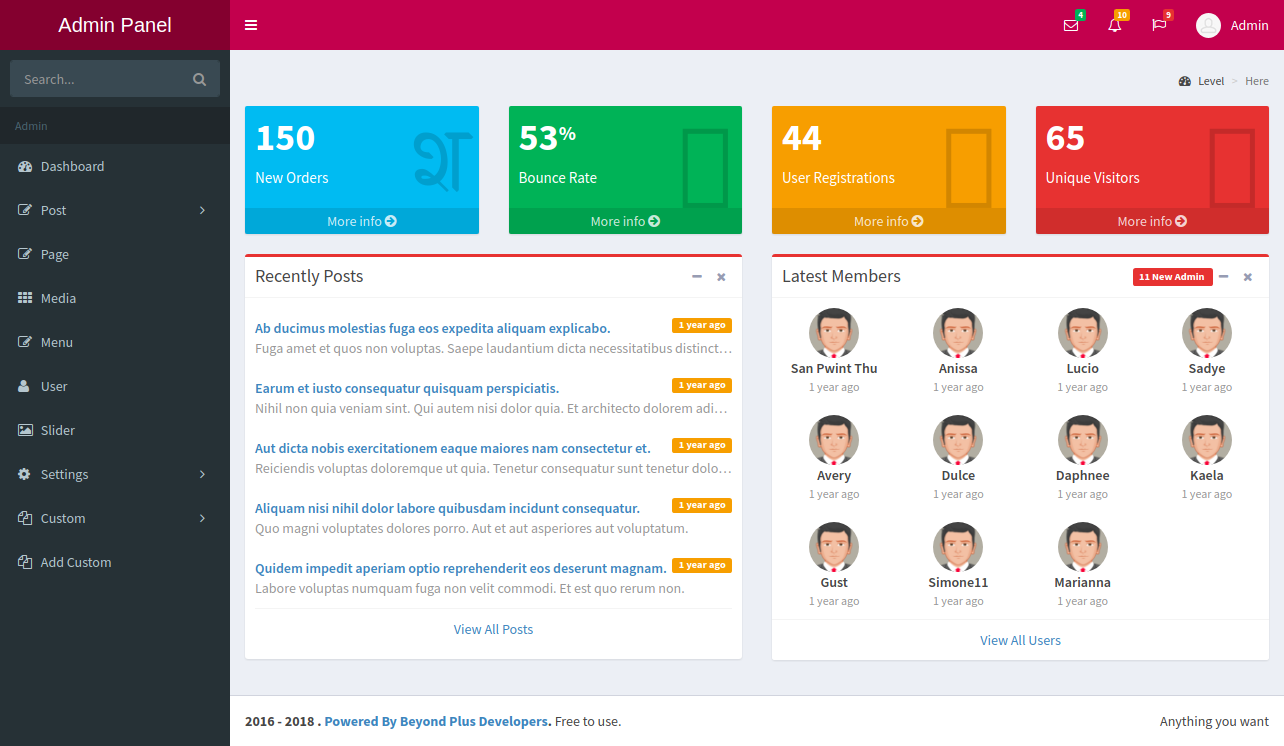
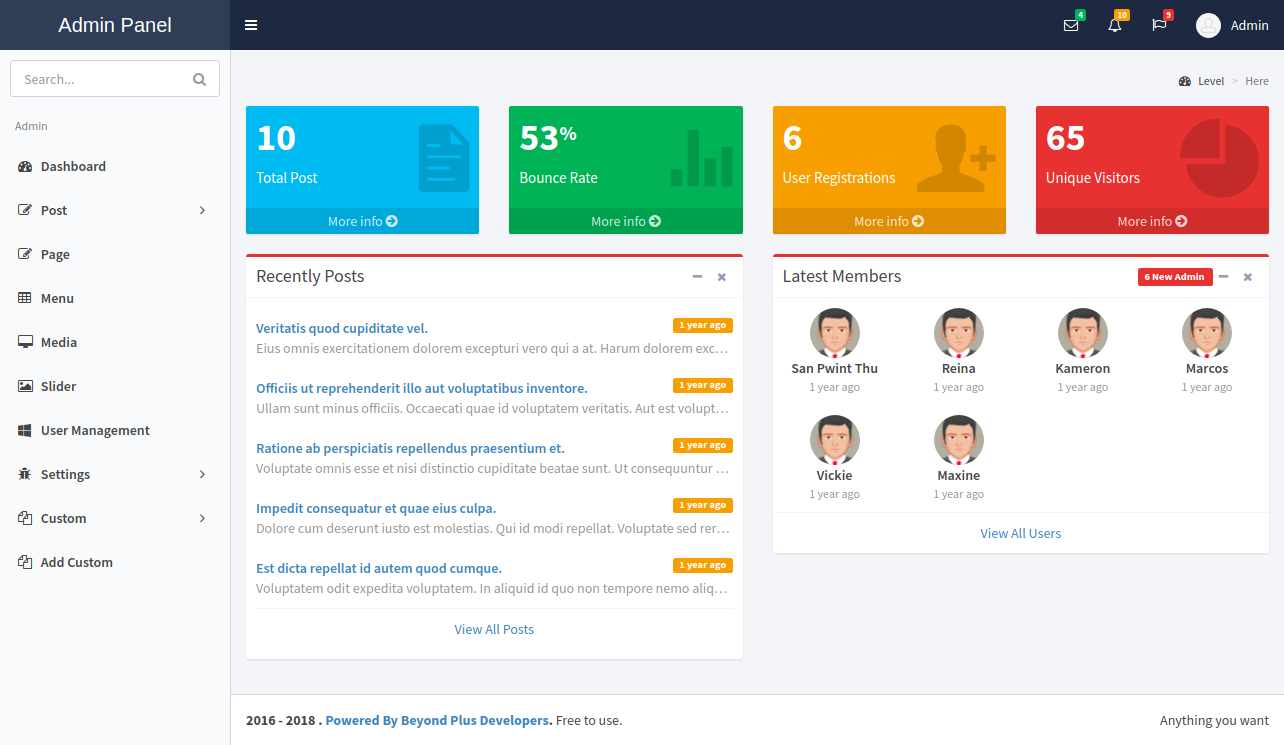
skin updated

diff --git a/resources/views/bp-admin/layouts/admin/index.blade.php b/resources/views/bp-admin/layouts/admin/index.blade.php
@@ -24,7 +24,7 @@ scratch. This page gets rid of all links and provides the needed markup only.
           page. However, you can choose any other skin. Make sure you
           apply the skin class to the body tag so the changes take effect.
     -->
-    <link href="{{ asset("/bower_components/adminlte/dist/css/skins/skin-blue.min.css")}}" rel="stylesheet" type="text/css" />
+    <link href="{{ asset("/bower_components/adminlte/dist/css/skins/skin-blue-dark.min.css")}}" rel="stylesheet" type="text/css" />
 
     <link rel="icon" href="{{ asset('/img/avatar.png') }}" type="image/jpg">
 
@@ -43,7 +43,7 @@ scratch. This page gets rid of all links and provides the needed markup only.
         });
     </script>
 </head>
-<body class="skin-blue">
+<body class="skin-blue-dark">
 <div class="wrapper">
 
     <!-- Header -->
